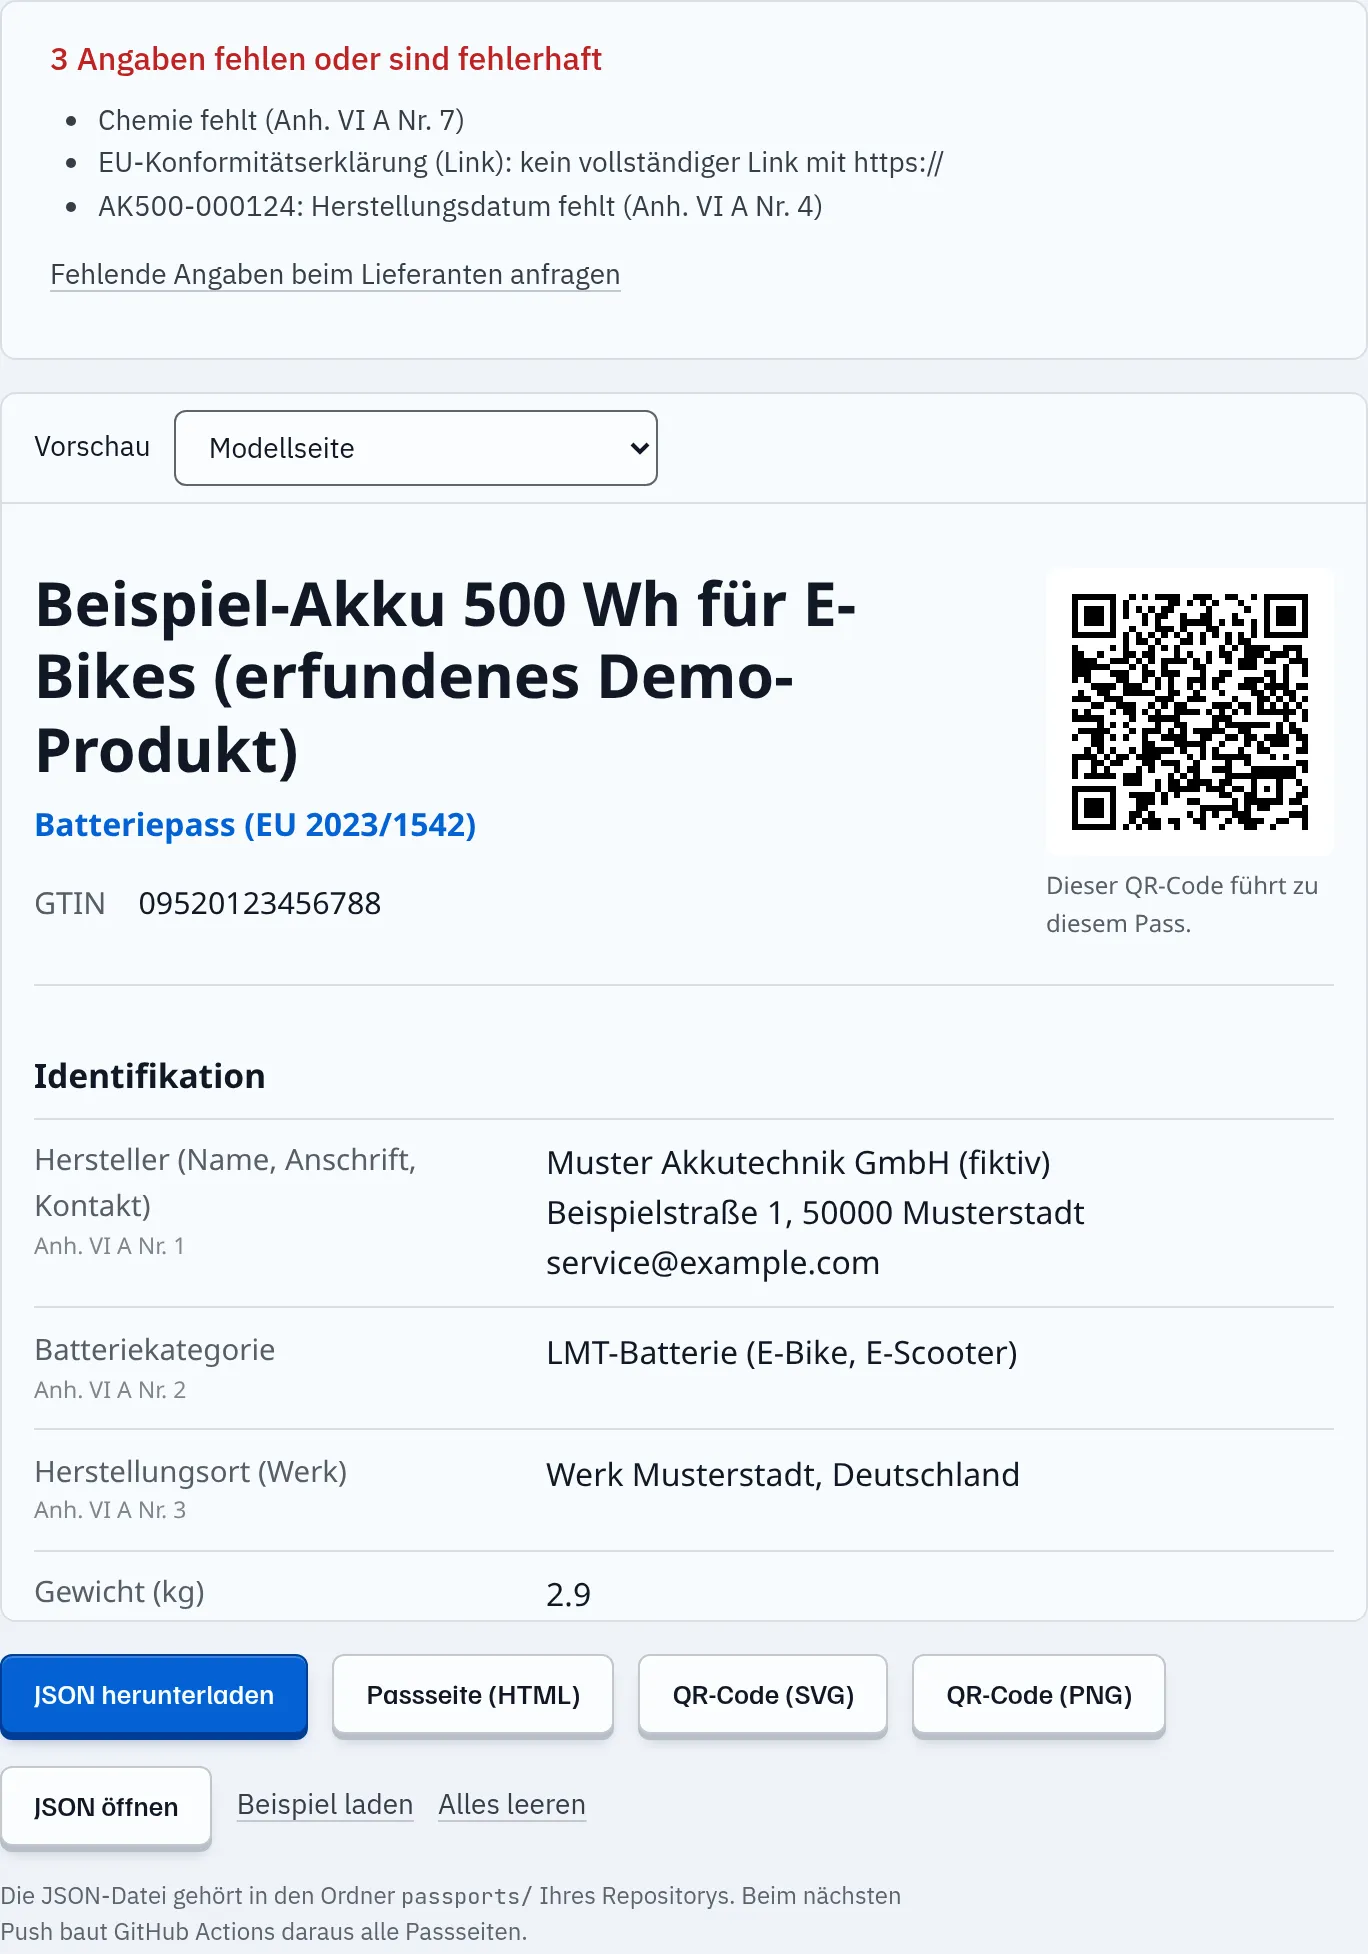
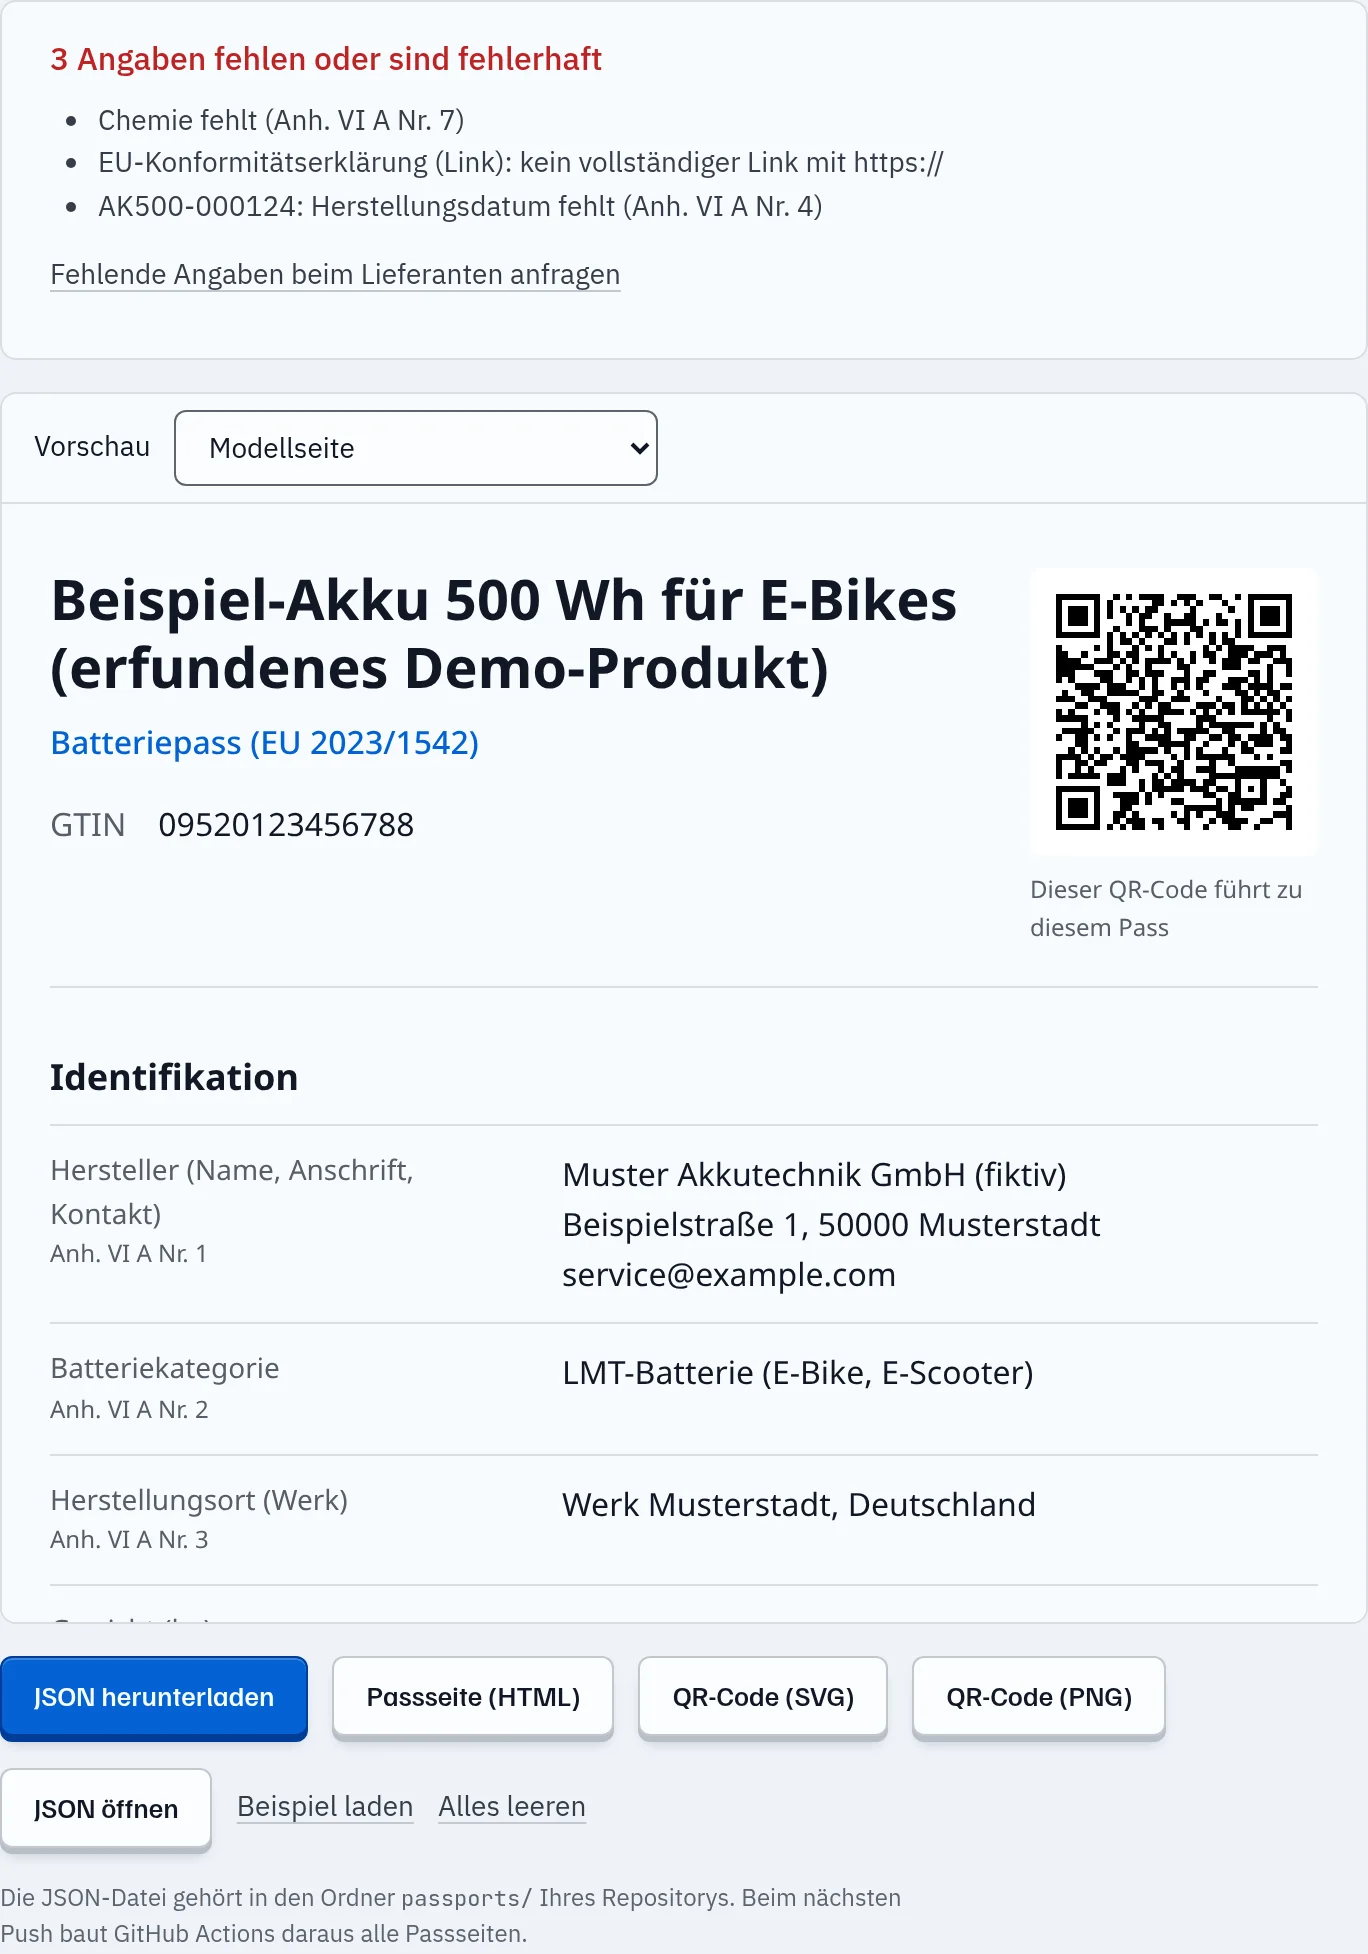
Editor und Passseiten: unslop-Durchgang, neue Screenshots
Passseiten: Zahlen im Format der Seitensprache (2,9 statt 2.9), Fundstellen
ohne Deckkraft-Abzug (Kontrast über 4,5:1), „nicht angegeben“ nicht mehr
kursiv, Überschriften 600 statt 700, fünf Schriftgrößen statt acht,
Abstände auf 4-px-Raster, 24 px Rand am Handy, QR-Bildunterschrift ohne Punkt.

Editor: rechte Spalte passt in die Fensterhöhe, Export und „Beispiel laden“
bleiben sichtbar, die Vorschau füllt den Rest. Kein blauer Schatten unter dem
Hauptknopf, keine negative Laufweite auf kleinen Überschriften, 24 px zwischen
den Feldgruppen, innerer Radius im Vorlagen-Umschalter.

Screenshots für Website und Vorschaubild neu aufgenommen, gleiche Namen und
Größen. Version 0.3.0.

diff --git a/site/editor/editor.css b/site/editor/editor.css
@@ -16,7 +16,7 @@ body { background: var(--color-paper-2); }
 .noscript { margin: var(--space-lg); }
 
 .bench { display: grid; grid-template-columns: minmax(0, 1fr) minmax(0, 1fr); gap: var(--space-lg); max-width: 1440px; margin-inline: auto; padding: var(--space-lg); align-items: start; }
-.sheet { display: grid; gap: var(--space-md); min-width: 0; }
+.sheet { display: grid; gap: var(--space-lg); min-width: 0; }
 .sheet__head { display: grid; gap: var(--space-xs); padding: var(--space-xs) 0; }
 .sheet__head h1 { font-size: var(--text-display); max-width: none; }
 .sheet__head p { color: var(--color-ink-2); }
@@ -46,7 +46,7 @@ input[type="file"]:focus-visible { outline: 2px solid var(--color-focus); outlin
 
 .seg { display: inline-flex; flex-wrap: wrap; gap: var(--space-2xs); padding: var(--space-2xs); border-radius: var(--radius-input); background: var(--color-paper-3); width: fit-content; }
 .seg input { position: absolute; opacity: 0; width: 1px; height: 1px; }
-.seg label { display: inline-flex; align-items: center; min-height: 36px; padding: 0 var(--space-md); border-radius: var(--radius-input); cursor: pointer; color: var(--color-ink-2); font-weight: 500; }
+.seg label { display: inline-flex; align-items: center; min-height: 36px; padding: 0 var(--space-md); border-radius: 4px; cursor: pointer; color: var(--color-ink-2); font-weight: 500; }
 .seg label:hover { color: var(--color-ink); }
 .seg input:checked + label { background: var(--color-key-face); color: var(--color-ink); box-shadow: var(--shadow-key-press), 0 0 0 1px var(--color-rule-2); }
 .seg input:focus-visible + label { outline: 2px solid var(--color-focus); outline-offset: 2px; }
@@ -77,17 +77,18 @@ code { font-family: var(--font-outlier); font-size: 0.92em; }
 .link:focus-visible { outline: 2px solid var(--color-focus); outline-offset: 2px; }
 .link:disabled { opacity: 0.55; cursor: not-allowed; }
 
-.side { position: sticky; top: var(--space-lg); display: grid; gap: var(--space-md); min-width: 0; }
+/* The panel fits the viewport so exports and "Beispiel laden" stay on screen; the preview takes what is left. */
+.side { position: sticky; top: var(--space-lg); display: grid; grid-template-rows: auto minmax(240px, 1fr) auto auto auto; gap: var(--space-md); height: calc(100dvh - 2 * var(--space-lg)); min-width: 0; }
 .check-box { padding: var(--space-md) var(--space-lg); border: var(--rule-hair) solid var(--color-rule); border-radius: var(--radius-card); background: var(--color-paper); }
 .status { font-weight: 500; }
 .status.is-bad { color: var(--color-error); }
 .status.is-ok { color: var(--color-success); }
 .problems { margin: var(--space-xs) 0 0; padding-left: var(--space-lg); font-size: var(--text-sm); color: var(--color-ink-2); }
 .problems:empty { display: none; }
-.preview { border: var(--rule-hair) solid var(--color-rule); border-radius: var(--radius-card); background: var(--color-paper); overflow: hidden; }
+.preview { display: grid; grid-template-rows: auto minmax(0, 1fr); border: var(--rule-hair) solid var(--color-rule); border-radius: var(--radius-card); background: var(--color-paper); overflow: hidden; }
 .preview__bar { display: flex; align-items: center; gap: var(--space-sm); padding: var(--space-xs) var(--space-md); border-bottom: var(--rule-hair) solid var(--color-rule); font-size: var(--text-sm); }
 .preview__bar select { width: auto; min-height: 32px; }
-#frame { display: block; width: 100%; height: min(62dvh, 640px); border: 0; background: var(--color-paper); }
+#frame { display: block; width: 100%; height: 100%; border: 0; background: var(--color-paper); }
 #frame:focus { outline: none; }
 .preview:focus-within { outline: 2px solid var(--color-focus); outline-offset: 2px; }
 .exports, .files { display: flex; flex-wrap: wrap; gap: var(--space-sm); align-items: center; }
@@ -95,6 +96,7 @@ code { font-family: var(--font-outlier); font-size: 0.92em; }
 @media (prefers-reduced-motion: reduce) { .key { transition: none; } }
 @media (max-width: 60rem) {
   .bench { grid-template-columns: minmax(0, 1fr); padding: var(--space-md); }
-  .side { position: static; }
+  .side { position: static; height: auto; grid-template-rows: none; }
+  #frame { height: min(62dvh, 640px); }
   .bar__links { gap: var(--space-md); }
 }

diff --git a/site/editor/tokens.css b/site/editor/tokens.css
@@ -23,7 +23,7 @@
   --cell-w: 8px; --cell-h: 16px; --cut: 8px; --cut-l: 16px;
   --rule-hair: 1px; --shadow-card: 0 1px 2px oklch(21% 0.028 262 / 0.06);
   --shadow-key: 0 3px 0 0 var(--color-key-edge), 0 6px 8px -4px oklch(21% 0.028 262 / 0.28), inset 0 1px 0 oklch(100% 0 0 / 0.9);
-  --shadow-key-accent: 0 3px 0 0 var(--color-accent-edge), 0 6px 8px -4px oklch(30% 0.12 260 / 0.45), inset 0 1px 0 oklch(100% 0 0 / 0.22);
+  --shadow-key-accent: 0 3px 0 0 var(--color-accent-edge), 0 6px 8px -4px oklch(21% 0.028 262 / 0.28), inset 0 1px 0 oklch(100% 0 0 / 0.22);
   --shadow-key-press: inset 0 1px 2px oklch(21% 0.028 262 / 0.14);
-  --tracking-display: -0.028em; --display-weight: 600;
+  --tracking-display: 0; --display-weight: 600;
 }
